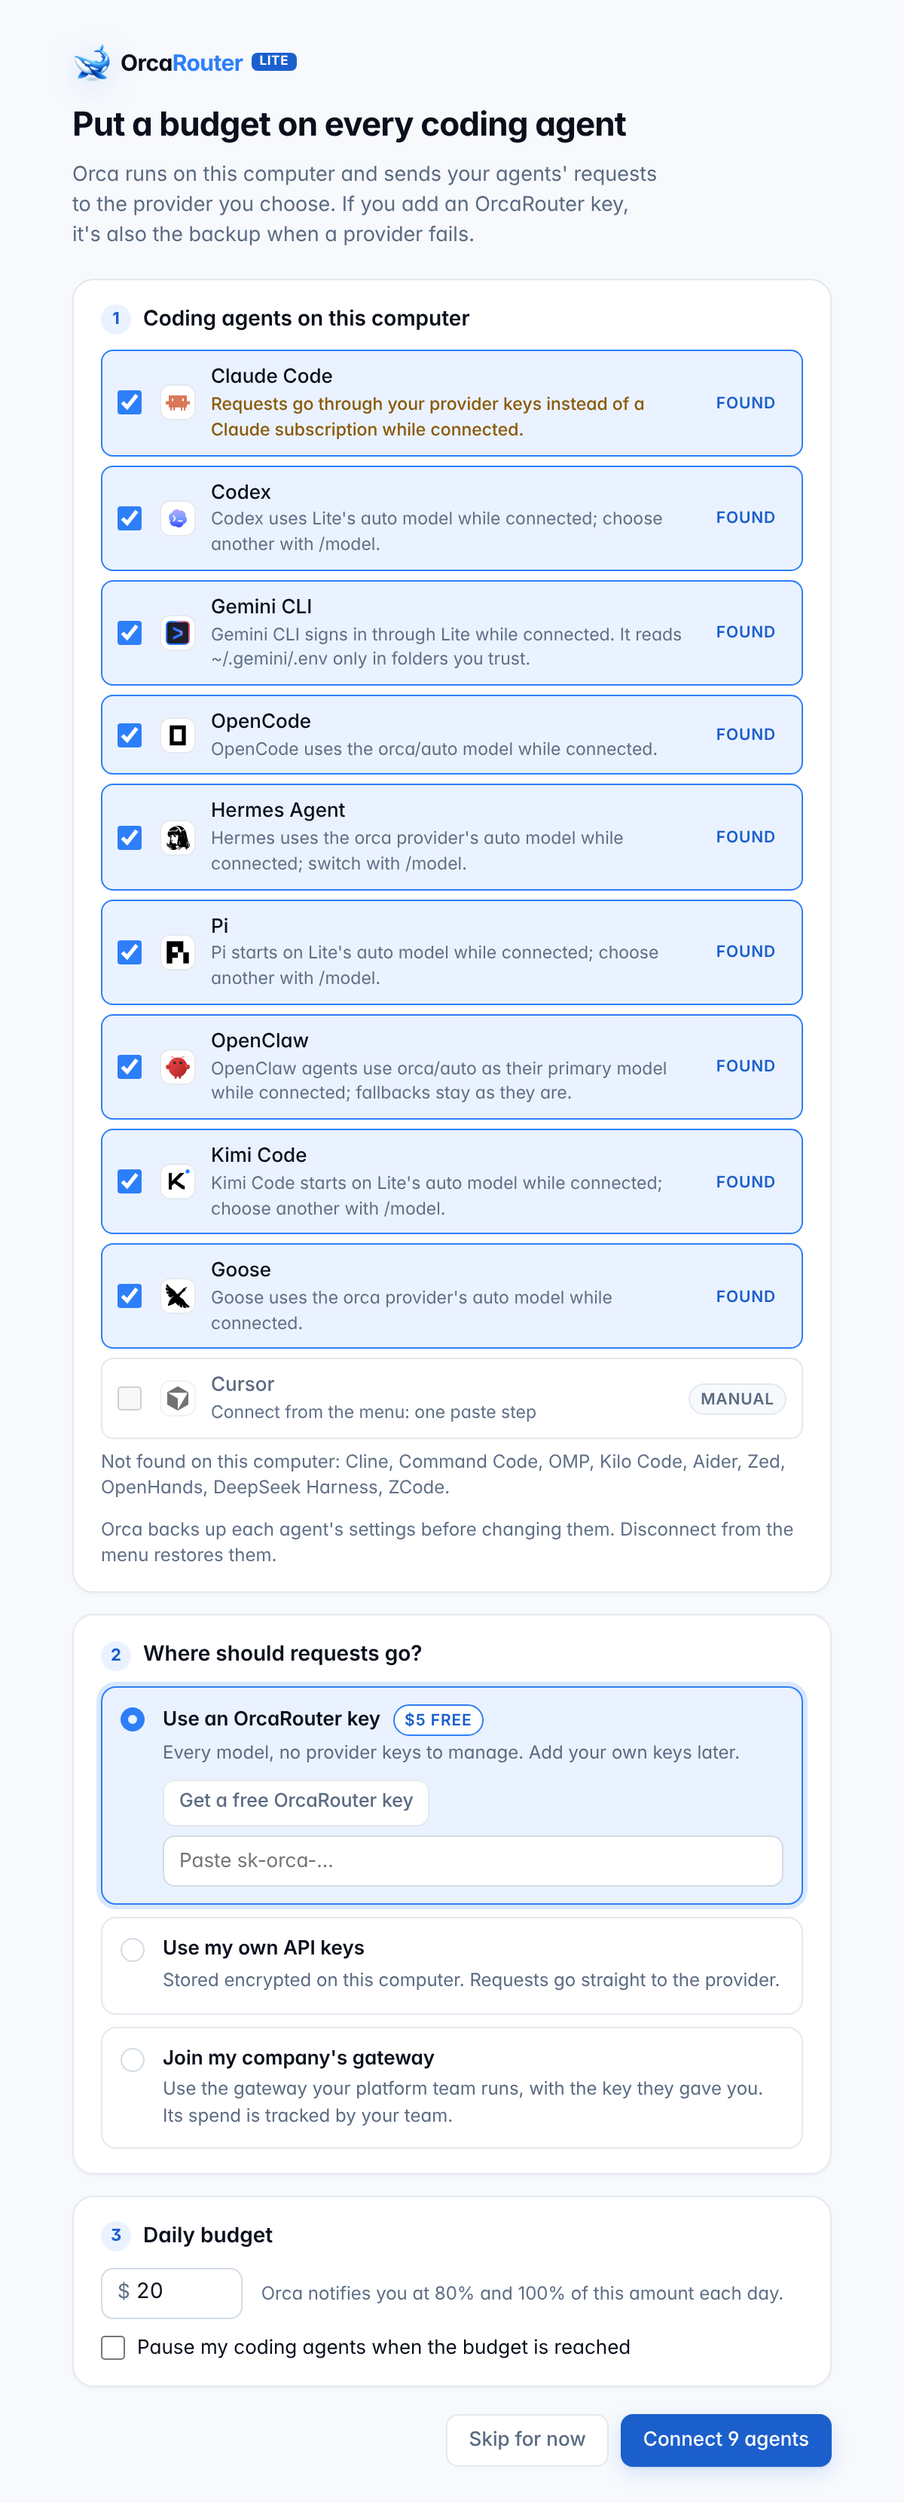
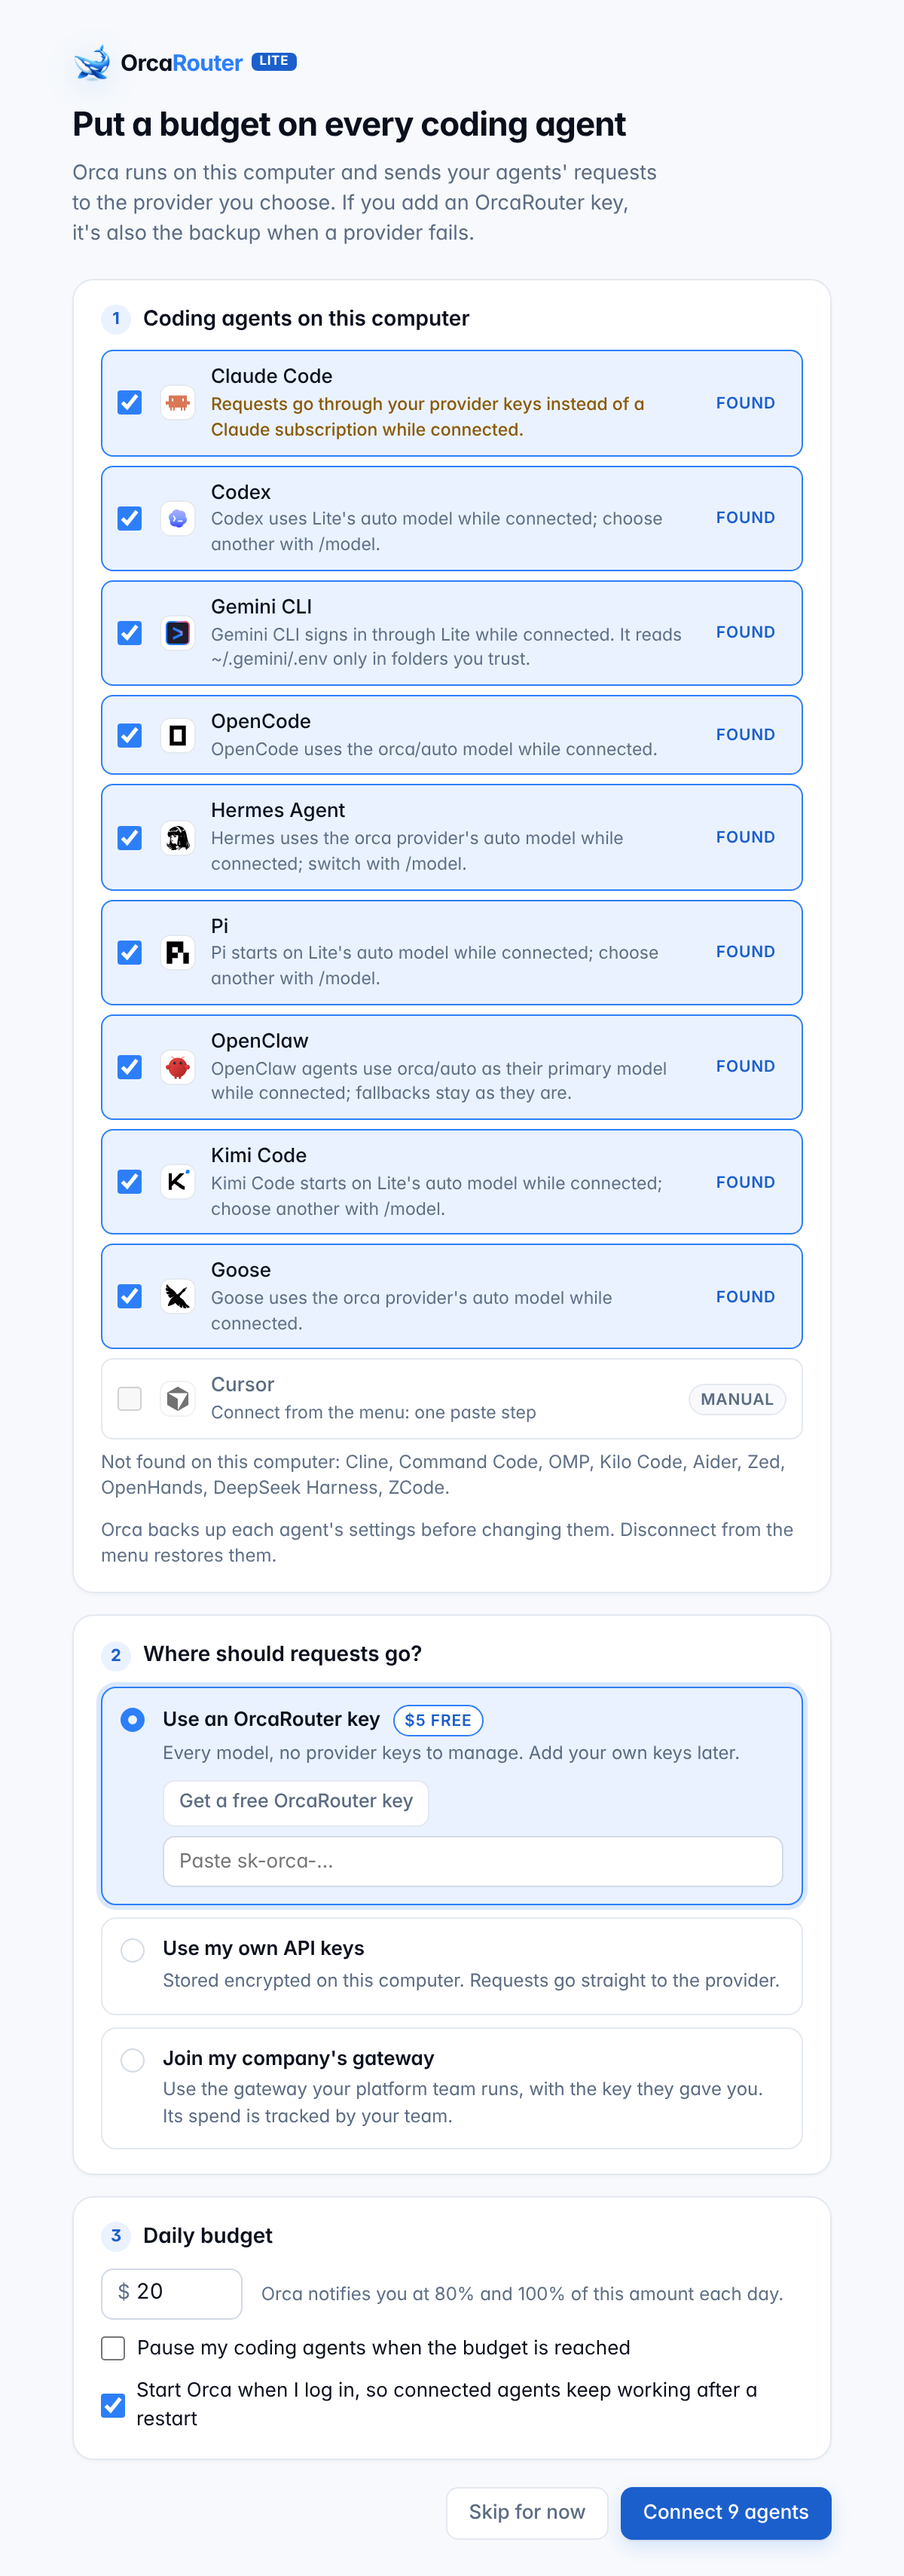
Docs and screenshots for start at login, key checks and uninstalling
- Every README links INSTALL.md: just the app, no server or database.
- SECURITY.md covers the key check, the login item, uninstall cleanup and
  the model fallback for agents.
- 'Disconnect all 3 agents' instead of 'Disconnect all 3'; Remove buttons
  line up with the key fields.
- New panel and setup screenshots.

Claude-Session: https://claude.ai/code/session_01Bk7vP6vdanJKdySUKcJaRU

diff --git a/desktop/ui/setup.css b/desktop/ui/setup.css
@@ -73,6 +73,6 @@ form { display: flex; flex-direction: column; gap: 14px; }
 .key-rows { display: flex; flex-direction: column; gap: 6px; }
 .key-row { display: grid; grid-template-columns: minmax(0, 9.5rem) minmax(0, 1fr) auto; gap: 6px; align-items: center; }
 .key-row select.text { padding-right: 4px; }
-.key-row .remove { padding: 4px 8px; }
+.key-row .remove { padding: 4px 8px; align-self: center; margin: 0; }
 .choice .fine { font-size: 11.5px; color: var(--ink-3); line-height: 1.45; }
 .choice .fine code { font-size: 11px; }

diff --git a/desktop/ui/lib.js b/desktop/ui/lib.js
@@ -300,5 +300,5 @@ export const NO_AGENTS_TEXT =
 export function disconnectAllLabel(rows) {
   const n = (rows || []).filter((r) => r.state === "connected").length;
   if (n === 0) return null;
-  return n === 1 ? "Disconnect all" : `Disconnect all ${n}`;
+  return n === 1 ? "Disconnect all" : `Disconnect all ${n} agents`;
 }

diff --git a/tests/e2e/test_desktop_e2e.py b/tests/e2e/test_desktop_e2e.py
@@ -536,7 +536,7 @@ def test_10d_disconnect_all_from_the_panel(stack):
     assert r.returncode == 0, r.stderr[-1500:]
     report = json.loads(r.stdout.strip().splitlines()[-1])
     assert report["errors"] == []
-    assert report["label"] == "Disconnect all 2" and "again" in report["armed"]
+    assert report["label"] == "Disconnect all 2 agents" and "again" in report["armed"]
     assert "Claude Code" in report["toast"] and "OpenCode" in report["toast"]
     agents = _app(stack, "GET", "/v1/app/agents").json()["agents"]
     assert not any(a["connected"] for a in agents)

diff --git a/SECURITY.md b/SECURITY.md
@@ -114,6 +114,23 @@ person on one computer:
   key can only call models (see above) and stops working when you disconnect.
   For the one-paste-step agents (Cline, Cursor, Zed, OpenHands, DeepSeek
   Harness, ZCode) nothing is written; you paste the key into the agent.
+- **Keys are checked only with their own provider.** Before setup saves a
+  provider key it asks that provider to list its models (no tokens spent),
+  sending the key only to that provider's own API. Only the desktop app's key
+  can run a check, so a key read out of an agent's config can't probe others.
+- **Start at login.** On by default, so connected agents keep working after a
+  restart. It adds one login item (a macOS LaunchAgent, a Windows `Run`
+  registry entry, or `~/.config/autostart/OrcaRouter Lite.desktop` on Linux)
+  that starts the app in the tray with `--background`; turning the setting off
+  removes it.
+- **Uninstalling restores your agents.** "Disconnect all" in the panel (or
+  `orca disconnect --all`) restores every agent and revokes its key; the
+  Windows uninstaller runs it itself (but not during an update).
+- **Agents get an answer, not an error.** If a desktop agent asks for a model
+  none of your keys covers, the engine serves it with the best model your keys
+  do cover and names both in the `x-orca-requested-model` and
+  `x-orca-resolved-model` headers. Dashboard and server keys keep strict
+  pinned models.
 - **Agent logos are bundled.** The app shows each agent's logo from files it
   ships with, loaded as images, so showing them never contacts anyone.
 - **Team gateways only over https.** `orca login` and "Join my company's

diff --git a/README.hi.md b/README.hi.md
@@ -44,6 +44,8 @@ Orca ऐप आपके मेन्यू बार में रहता ह
 
 **इंस्टॉल।** इंस्टॉलर (`.dmg`, `.deb`, `.AppImage`, `.msi`) [`desktop.yml`](./.github/workflows/desktop.yml) से बनते हैं और अगले टैग किए गए वर्ज़न से शुरू होकर हर रिलीज़ के साथ अटैच किए जाते हैं। तब तक, वही इंजन और CLI बस एक कमांड दूर हैं:
 
+**सिर्फ़ ऐप चाहिए:** इसमें अपना इंजन और एक लोकल SQLite फ़ाइल शामिल है; कोई सर्वर या डेटाबेस सेट नहीं करना पड़ता। डाउनलोड, पहली बार चलाना, लॉगिन पर शुरू होना और अनइंस्टॉल: [INSTALL.md](./INSTALL.md) (अंग्रेज़ी में)।
+
 ```bash
 uvx --from git+https://github.com/Continuum-AI-Corp/OrcaRouter-Lite orca up
 ```

diff --git a/README.ru.md b/README.ru.md
@@ -44,6 +44,8 @@ OrcaRouter Lite — это open-source-редакция [OrcaRouter](https://www
 
 **Установка.** Установщики (`.dmg`, `.deb`, `.AppImage`, `.msi`) собираются в [`desktop.yml`](./.github/workflows/desktop.yml) и прикладываются к каждому релизу, начиная со следующей версии с тегом. А пока тот же движок и CLI доступны одной командой:
 
+**Нужно только приложение:** в нём свой движок и локальный файл SQLite — ни сервер, ни база данных не нужны. Загрузка, первый запуск, автозапуск при входе и удаление: [INSTALL.md](./INSTALL.md) (на английском).
+
 ```bash
 uvx --from git+https://github.com/Continuum-AI-Corp/OrcaRouter-Lite orca up
 ```

diff --git a/README.ja.md b/README.ja.md
@@ -49,6 +49,8 @@ Orca アプリはメニューバーに常駐します。ルーターを `127.0.0
 [`desktop.yml`](./.github/workflows/desktop.yml) でビルドされ、次のタグ付きバージョン以降の各リリースに
 添付されます。それまでは、同じエンジンと CLI をコマンド 1 つで使えます:
 
+**必要なのはアプリだけ:** エンジンとローカルの SQLite ファイルを内蔵しているので、サーバーやデータベースの用意は不要です。ダウンロード、初回起動、ログイン時の起動、アンインストールは [INSTALL.md](./INSTALL.md)（英語）を参照してください。
+
 ```bash
 uvx --from git+https://github.com/Continuum-AI-Corp/OrcaRouter-Lite orca up
 ```

diff --git a/README.pt.md b/README.pt.md
@@ -44,6 +44,8 @@ O app Orca fica na sua barra de menus. Ele roda o roteador em `127.0.0.1`, conec
 
 **Instalação.** Os instaladores (`.dmg`, `.deb`, `.AppImage`, `.msi`) são gerados pelo [`desktop.yml`](./.github/workflows/desktop.yml) e anexados a cada release, a partir da próxima versão com tag. Até lá, o mesmo engine e a mesma CLI estão a um comando de distância:
 
+**Só precisa do app:** ele traz o próprio motor e um arquivo SQLite local; não há servidor nem banco de dados para configurar. Download, primeira execução, iniciar com o sistema e desinstalação: [INSTALL.md](./INSTALL.md) (em inglês).
+
 ```bash
 uvx --from git+https://github.com/Continuum-AI-Corp/OrcaRouter-Lite orca up
 ```

diff --git a/README.vi.md b/README.vi.md
@@ -49,6 +49,8 @@ của bạn vào đó và cho bạn thấy chúng tiêu bao nhiêu.
 [`desktop.yml`](./.github/workflows/desktop.yml) và đính kèm vào mỗi bản phát hành, bắt đầu từ
 phiên bản được gắn tag tiếp theo. Cho đến lúc đó, cùng engine và CLI ấy chỉ cách bạn một lệnh:
 
+**Chỉ cần ứng dụng:** ứng dụng có sẵn engine và một tệp SQLite cục bộ, không cần dựng máy chủ hay cơ sở dữ liệu. Tải về, chạy lần đầu, tự khởi động khi đăng nhập và gỡ cài đặt: [INSTALL.md](./INSTALL.md) (tiếng Anh).
+
 ```bash
 uvx --from git+https://github.com/Continuum-AI-Corp/OrcaRouter-Lite orca up
 ```

diff --git a/README.ko.md b/README.ko.md
@@ -49,6 +49,8 @@ Orca 앱은 메뉴 바에 상주합니다. `127.0.0.1`에서 라우터를 실행
 [`desktop.yml`](./.github/workflows/desktop.yml)로 빌드되며, 다음 태그 버전부터 각 릴리스에
 첨부됩니다. 그때까지는 같은 엔진과 CLI를 명령 한 줄로 사용할 수 있습니다.
 
+**앱만 있으면 됩니다:** 자체 엔진과 로컬 SQLite 파일을 포함하므로 서버나 데이터베이스를 설정할 필요가 없습니다. 다운로드, 첫 실행, 로그인 시 시작, 제거 방법은 [INSTALL.md](./INSTALL.md)(영문)를 참고하세요.
+
 ```bash
 uvx --from git+https://github.com/Continuum-AI-Corp/OrcaRouter-Lite orca up
 ```

diff --git a/README.fr.md b/README.fr.md
@@ -49,6 +49,8 @@ vos agents de code et affiche ce qu'ils dépensent.
 [`desktop.yml`](./.github/workflows/desktop.yml) et joints à chaque release, à partir de la
 prochaine version taguée. En attendant, le même moteur et la même CLI sont à une commande près :
 
+**L'app suffit :** elle embarque son propre moteur et un fichier SQLite local ; aucun serveur ni base de données à installer. Téléchargement, premier lancement, démarrage à l'ouverture de session et désinstallation : [INSTALL.md](./INSTALL.md) (en anglais).
+
 ```bash
 uvx --from git+https://github.com/Continuum-AI-Corp/OrcaRouter-Lite orca up
 ```
